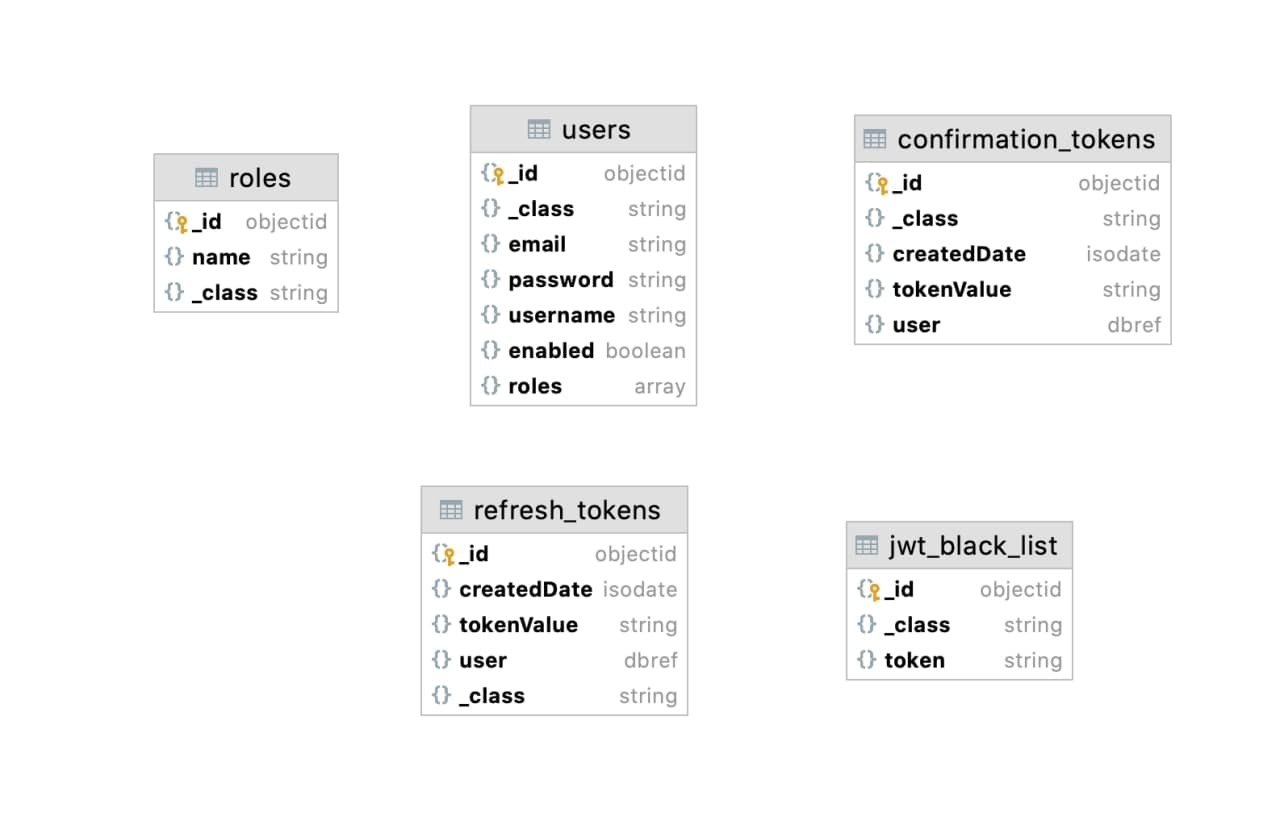
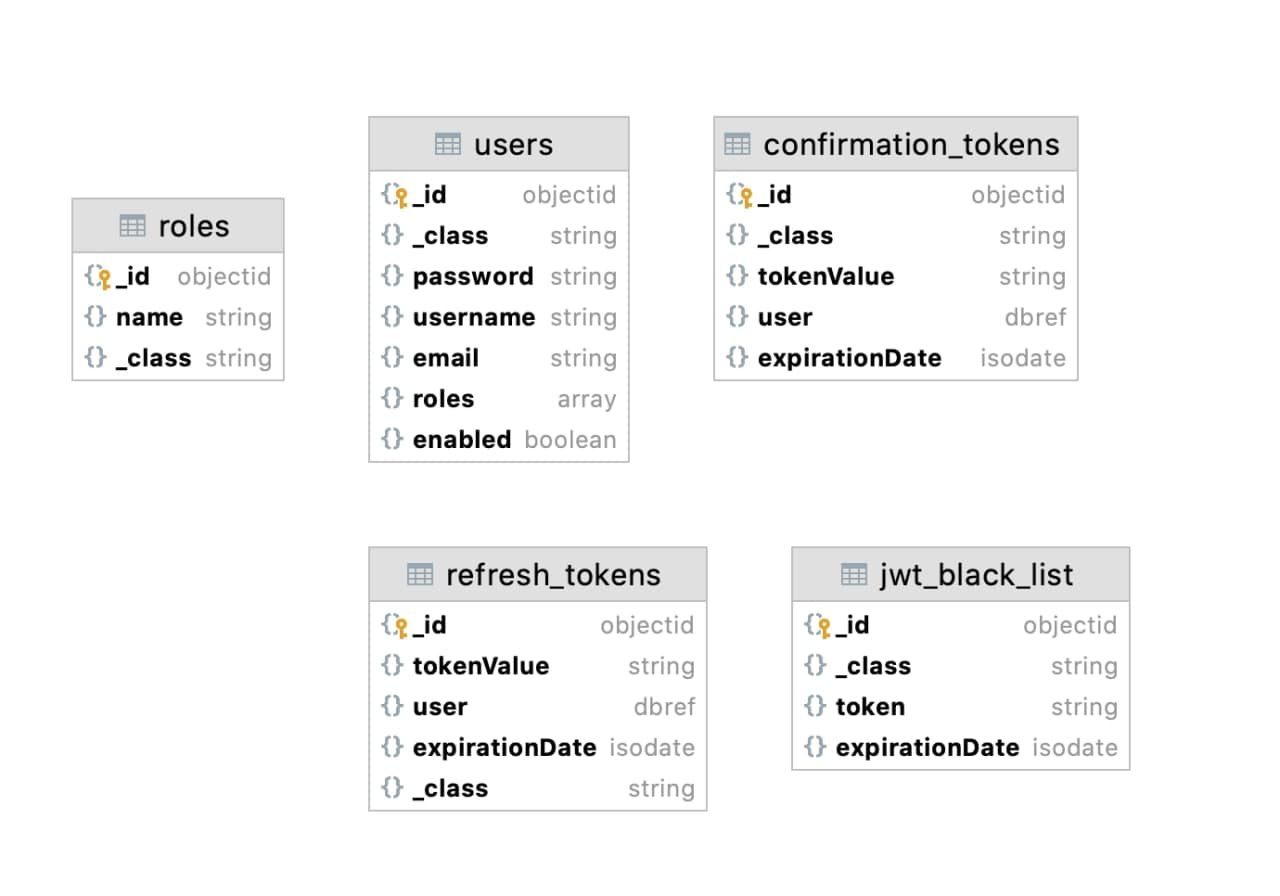
add token expiration date parameter to MongoDB

Changed region(s): [[0.0312, 0.1225, 0.9375, 0.5208], [0.2812, 0.5821, 0.5625, 0.9191], [0.5938, 0.5821, 0.9062, 0.8578]]

diff --git a/backend/src/main/java/com/kpi/springlabs/backend/model/JwtBlackList.java b/backend/src/main/java/com/kpi/springlabs/backend/model/JwtBlackList.java
@@ -6,6 +6,8 @@ import lombok.Setter;
 import org.springframework.data.annotation.Id;
 import org.springframework.data.mongodb.core.mapping.Document;
 
+import java.time.Instant;
+
 @Document(collection = Constants.DocumentNames.JWT_BLACK_LISTS)
 @Setter
 @Getter
@@ -16,7 +18,10 @@ public class JwtBlackList {
 
     private String token;
 
-    public JwtBlackList(String token) {
+    private Instant expirationDate;
+
+    public JwtBlackList(String token, Instant expirationDate) {
         this.token = token;
+        this.expirationDate = expirationDate;
     }
 }

diff --git a/backend/src/main/java/com/kpi/springlabs/backend/model/ConfirmationToken.java b/backend/src/main/java/com/kpi/springlabs/backend/model/ConfirmationToken.java
@@ -19,14 +19,14 @@ public class ConfirmationToken {
 
     private String tokenValue;
 
-    private Instant createdDate;
+    private Instant expirationDate;
 
     @DBRef
     private User user;
 
-    public ConfirmationToken(String tokenValue, User user) {
+    public ConfirmationToken(String tokenValue, User user, Instant expirationDate) {
         this.tokenValue = tokenValue;
-        this.createdDate = Instant.now();
+        this.expirationDate = expirationDate;
         this.user = user;
     }
 }

diff --git a/backend/src/main/java/com/kpi/springlabs/backend/model/RefreshToken.java b/backend/src/main/java/com/kpi/springlabs/backend/model/RefreshToken.java
@@ -19,14 +19,14 @@ public class RefreshToken {
 
     private String tokenValue;
 
-    private Instant createdDate;
+    private Instant expirationDate;
 
     @DBRef
     private User user;
 
-    public RefreshToken(String tokenValue, User user) {
+    public RefreshToken(String tokenValue, User user, Instant expirationDate) {
         this.tokenValue = tokenValue;
-        this.createdDate = Instant.now();
+        this.expirationDate = expirationDate;
         this.user = user;
     }
 }
